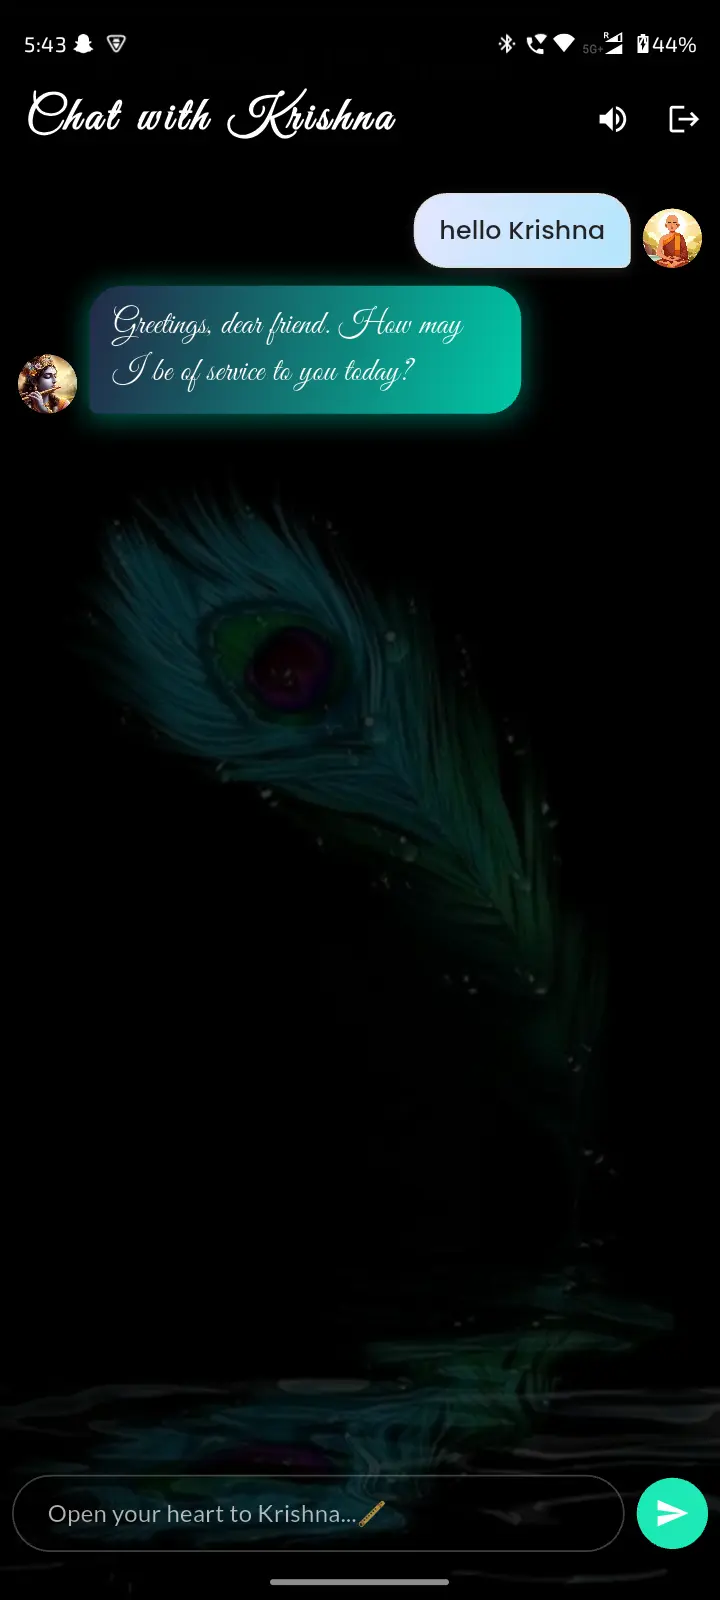
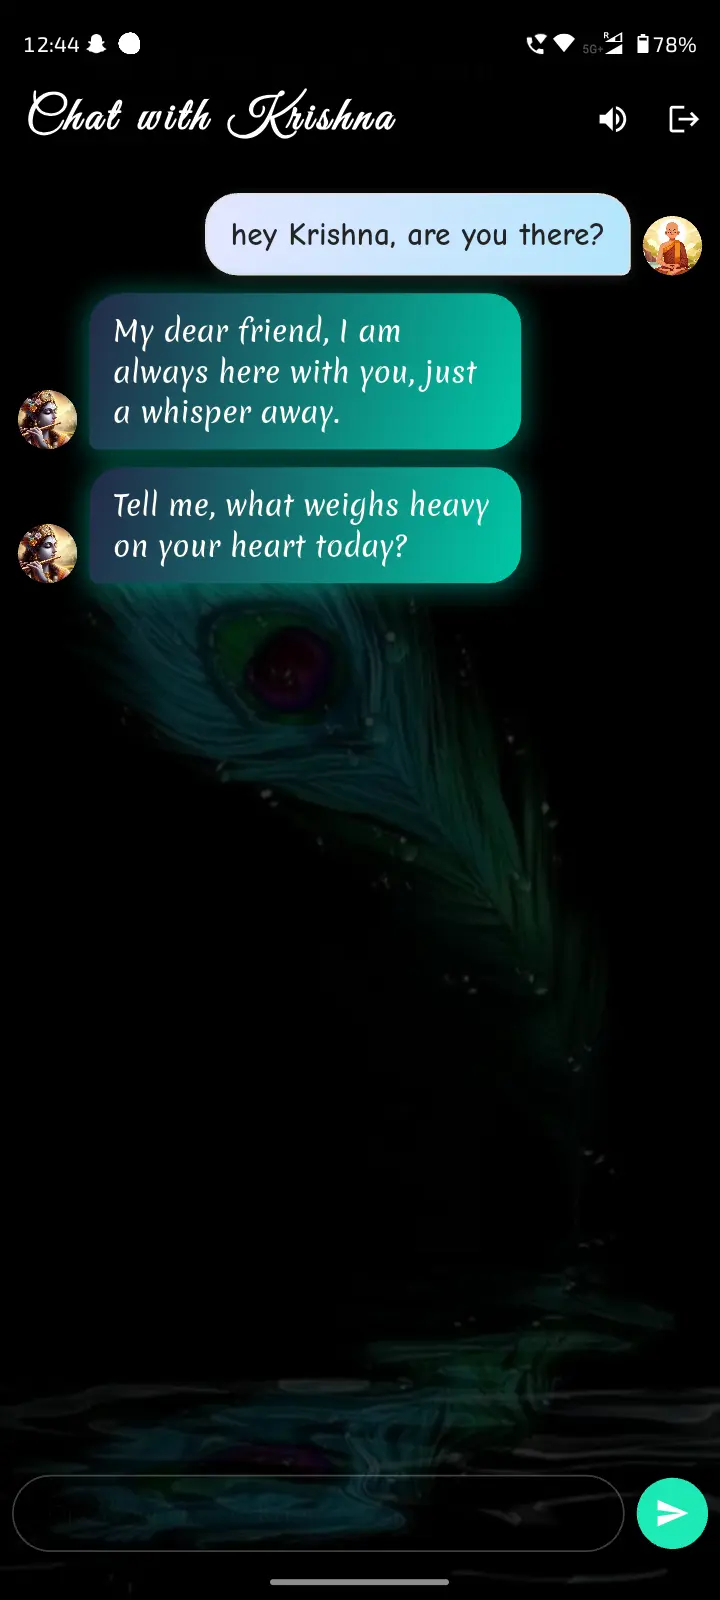
updated RELEASE and README with release updates and screenshots

diff --git a/RELEASE.md b/RELEASE.md
@@ -1,11 +1,12 @@
-# Krishna Chatbot – v1.1.0 Major Release Update ✨🤖
+# Krishna Chatbot – v1.1.1 Font Refresh & Improvements ✨🖋
 
-## What's New in v1.1.0 🚀
+## What's New in v1.1.1 🚀
 
-- **Critical Google Sign-In Fix:** 🛡🔑 Google authentication now works seamlessly in the release build. Users can now log in and register using their Google accounts without any issues.
-- **Firebase Release Keystore Integration:** 🔒 The app is now properly configured with the release keystore SHA-1 and SHA-256 in Firebase, ensuring secure and reliable authentication for all users.
-- **Performance Optimizations:** 🖼🌐 Continues to use WebP images for a smaller, faster app and improved user experience.
-- **Essential Update:** This release resolves a major issue that previously prevented users from accessing the chat feature in the release version.
+- **Font Refresh for Better Readability:**  
+  - Krishna's English replies now use the elegant **Merienda** font for improved clarity and style.
+  - Krishna's Sanskrit/Devanagari replies continue to use **Yatra One** for script compatibility.
+  - User messages now use the playful **Comic Neue** font (changed from Poppins) for a friendlier chat experience.
+- **All previous fixes and optimizations included.**
 
-Thank you for your patience and support! 🙏  
-If you encounter any issues or have suggestions, please let us know. Enjoy chatting with Krishna!
+Thank you for your feedback and support! 🙏  
+If you encounter any issues or have suggestions, please let us know. Enjoy the new look and keep chatting with Krishna!
